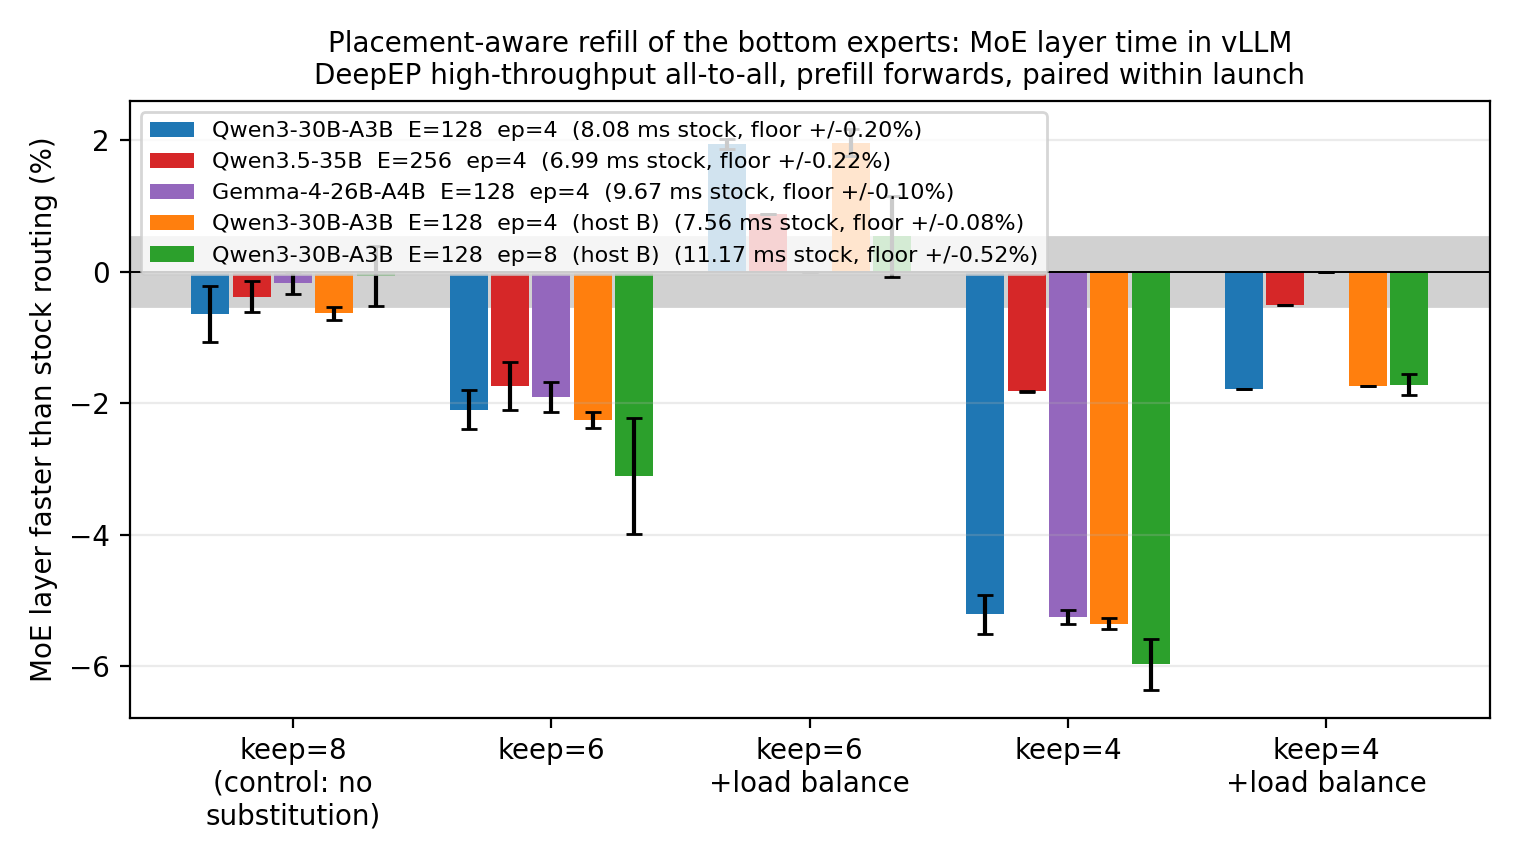
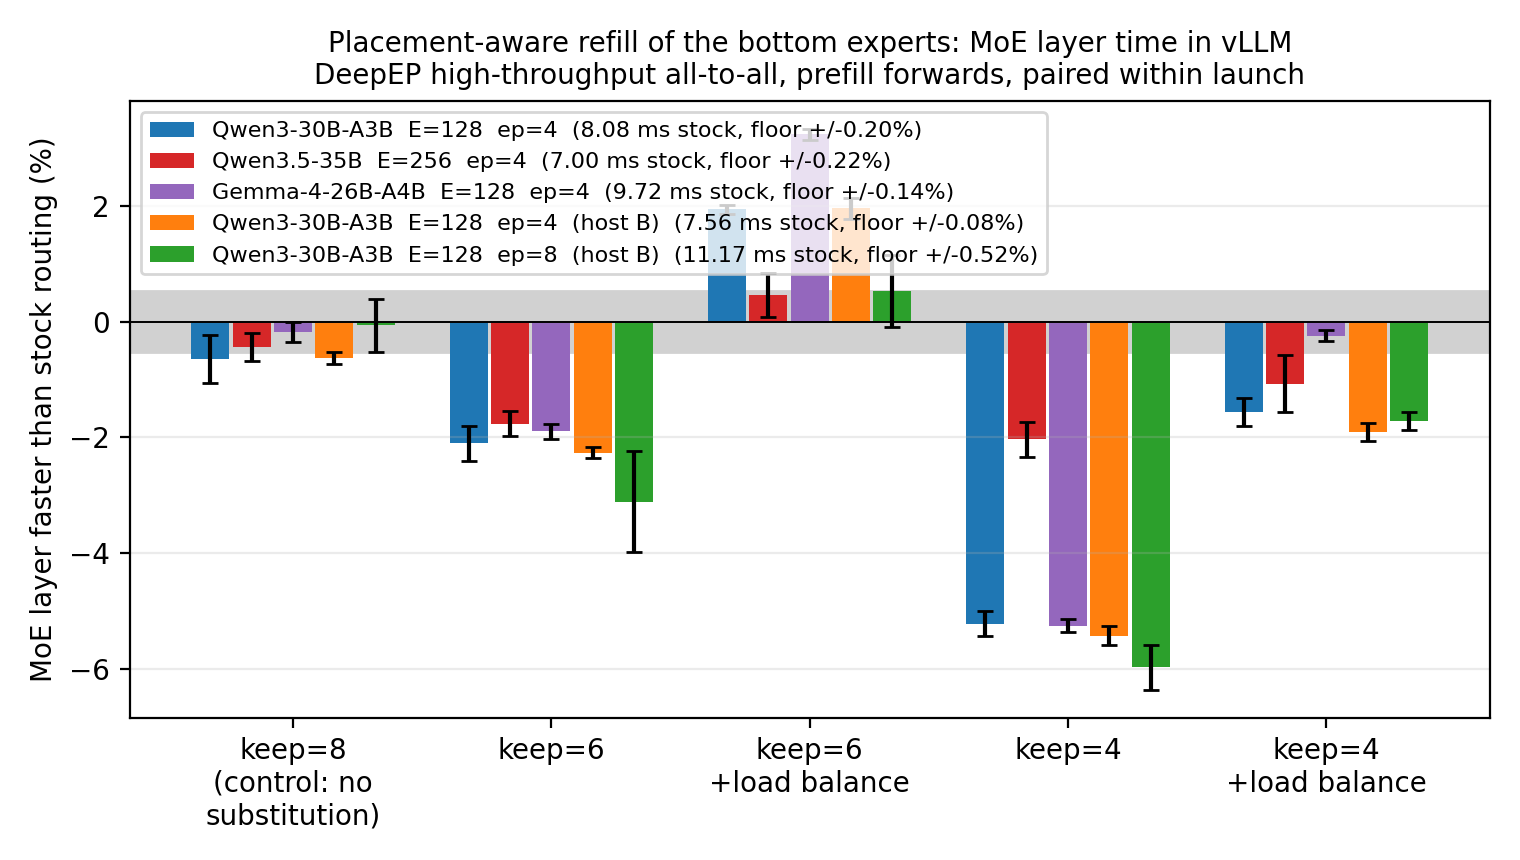
Fill the remaining cells of both render tables
Row 1's keep=4 arms now average three and two launches, and keep=6 with the
load-balance term clears its floor on all five rows of the whole-layer clock.

diff --git a/README.md b/README.md
@@ -195,10 +195,10 @@ the zero-substitution control: the kernel runs and selects nothing different.
 <!-- disptime -->
 | model | stock ms / deepep dispatch | tokens / forward | floor | keep=8 (control: no substitution) | keep=6 | keep=6 +load balance | keep=4 | keep=4 +load balance |
 |---|---|---|---|---|---|---|---|---|
-| Qwen3-30B-A3B  E=128  ep=4 | 1.96 | 16384 | +/-0.36% | **+0.0%** x4 | **+0.8%** x4 | **+0.8%** x4 | **+4.0%** x1 | - |
-| Qwen3.5-35B  E=256  ep=4 | 1.93 | 16384 | +/-0.16% | **-0.0%** x2 | - | **+0.0%** x1 | - | **+2.7%** x1 |
-| Gemma-4-26B-A4B  E=128  ep=4 | 2.13 | 16384 | +/-0.02% | **-0.2%** x1 | **+0.7%** x1 | - | **+3.9%** x1 | - |
-| Qwen3-30B-A3B  E=128  ep=4  (host B) | 1.81 | 16384 | +/-0.02% | **+0.1%** x3 | **+1.0%** x3 | **+0.9%** x3 | **+4.2%** x2 | **+4.2%** x1 |
+| Qwen3-30B-A3B  E=128  ep=4 | 1.95 | 16384 | +/-0.36% | **+0.0%** x4 | **+0.8%** x4 | **+0.8%** x4 | **+3.8%** x3 | **+3.8%** x2 |
+| Qwen3.5-35B  E=256  ep=4 | 1.93 | 16384 | +/-0.16% | **-0.0%** x3 | **-0.3%** x2 | **-0.2%** x3 | **+2.7%** x2 | **+2.6%** x3 |
+| Gemma-4-26B-A4B  E=128  ep=4 | 2.15 | 16384 | +/-0.05% | **-0.2%** x1 | **+0.6%** x3 | **+0.6%** x2 | **+3.9%** x1 | **+3.6%** x2 |
+| Qwen3-30B-A3B  E=128  ep=4  (host B) | 1.81 | 16384 | +/-0.05% | **+0.0%** x3 | **+1.0%** x3 | **+0.9%** x3 | **+4.1%** x3 | **+4.2%** x3 |
 | Qwen3-30B-A3B  E=128  ep=8  (host B) | 2.23 | 16384 | +/-0.05% | **+0.0%** x3 | **+3.9%** x3 | **+4.0%** x5 | **+10.7%** x2 | **+10.4%** x2 |
 <!-- /disptime -->
 
@@ -207,7 +207,7 @@ averages, and positive is faster. The floor is per row, because a cell is only e
 launches of its own tag: it is that row's widest base-against-base spread, halved. Four things
 make this the rule rather than the instrument. The full substitution budget, `keep=4`, is faster
 on every row and every family, from +2.6% to +10.7%. The zero-substitution control is not (-0.2%
-to +0.1%), so the kernel's own cost is not what is being measured. The gain is monotone in the
+to +0.0%), so the kernel's own cost is not what is being measured. The gain is monotone in the
 substitution budget, within every row. And the last two rows are the same model on the same host
 type at two world sizes, so the `ep` step can be read without crossing clusters: 0.9% becomes
 4.0% at `keep=6`, 4.2% becomes 10.4% at `keep=4`. That is what a fan-out saving has to do, since
@@ -223,16 +223,17 @@ also what the load-balance term is for - adding the max-rank-load penalty to the
 <!-- moetime -->
 | model | stock ms / moe layer | tokens / forward | floor | keep=8 (control: no substitution) | keep=6 | keep=6 +load balance | keep=4 | keep=4 +load balance |
 |---|---|---|---|---|---|---|---|---|
-| Qwen3-30B-A3B  E=128  ep=4 | 8.08 | 16384 | +/-0.20% | **-0.6%** x6 | **-2.1%** x6 | **+1.9%** x4 | **-5.2%** x3 | **-1.8%** x1 |
-| Qwen3.5-35B  E=256  ep=4 | 6.99 | 16384 | +/-0.22% | **-0.4%** x4 | **-1.7%** x2 | **+0.9%** x1 | **-1.8%** x2 | **-0.5%** x1 |
-| Gemma-4-26B-A4B  E=128  ep=4 | 9.67 | 16384 | +/-0.10% | **-0.2%** x2 | **-1.9%** x2 | - | **-5.2%** x2 | - |
-| Qwen3-30B-A3B  E=128  ep=4  (host B) | 7.56 | 16384 | +/-0.08% | **-0.6%** x3 | **-2.3%** x3 | **+2.0%** x3 | **-5.4%** x2 | **-1.7%** x1 |
+| Qwen3-30B-A3B  E=128  ep=4 | 8.08 | 16384 | +/-0.20% | **-0.6%** x6 | **-2.1%** x6 | **+1.9%** x4 | **-5.2%** x5 | **-1.6%** x3 |
+| Qwen3.5-35B  E=256  ep=4 | 7.00 | 16384 | +/-0.22% | **-0.4%** x5 | **-1.8%** x4 | **+0.5%** x3 | **-2.0%** x4 | **-1.1%** x3 |
+| Gemma-4-26B-A4B  E=128  ep=4 | 9.72 | 16384 | +/-0.14% | **-0.2%** x2 | **-1.9%** x4 | **+3.2%** x2 | **-5.2%** x2 | **-0.2%** x2 |
+| Qwen3-30B-A3B  E=128  ep=4  (host B) | 7.56 | 16384 | +/-0.08% | **-0.6%** x3 | **-2.3%** x3 | **+2.0%** x3 | **-5.4%** x3 | **-1.9%** x3 |
 | Qwen3-30B-A3B  E=128  ep=8  (host B) | 11.17 | 16384 | +/-0.52% | **-0.1%** x4 | **-3.1%** x3 | **+0.5%** x6 | **-6.0%** x2 | **-1.7%** x3 |
 <!-- /moetime -->
 
 `keep=6` with the load-balance term is the only arm that clears the floor on the whole-layer
-clock, and it clears it on every family it has been measured on - +2.0%, +0.9%, +0.5% - while
-the dispatch saving underneath is 10x to 200x its own floor at every budget. That is the split,
+clock, and it clears it on all five rows - +1.9%, +0.5%, +3.2%, +2.0%, +0.5%, against floors of
+0.08% to 0.52% - while the dispatch saving underneath is 10x to 200x its own floor at every
+budget. That is the split,
 and it is why both figures are here: `runs/disptime.png` measures the term the rule acts on,
 and `runs/moetime.png` measures what reaches the layer after the grouped GEMM has had its say.
 `keep=6 load_penalty=1` is therefore the arm to deploy, and it is the one the offline

diff --git a/runs/moetime.md b/runs/moetime.md
@@ -2,8 +2,8 @@ MoE layer time inside a running vLLM 0.31 engine on the DeepEP high-throughput a
 
 | model | stock ms / moe layer | tokens / forward | floor | keep=8 (control: no substitution) | keep=6 | keep=6 +load balance | keep=4 | keep=4 +load balance |
 |---|---|---|---|---|---|---|---|---|
-| Qwen3-30B-A3B  E=128  ep=4 | 8.08 | 16384 | +/-0.20% | **-0.6%** x6 | **-2.1%** x6 | **+1.9%** x4 | **-5.2%** x3 | **-1.8%** x1 |
-| Qwen3.5-35B  E=256  ep=4 | 6.99 | 16384 | +/-0.22% | **-0.4%** x4 | **-1.7%** x2 | **+0.9%** x1 | **-1.8%** x2 | **-0.5%** x1 |
-| Gemma-4-26B-A4B  E=128  ep=4 | 9.67 | 16384 | +/-0.10% | **-0.2%** x2 | **-1.9%** x2 | - | **-5.2%** x2 | - |
-| Qwen3-30B-A3B  E=128  ep=4  (host B) | 7.56 | 16384 | +/-0.08% | **-0.6%** x3 | **-2.3%** x3 | **+2.0%** x3 | **-5.4%** x2 | **-1.7%** x1 |
+| Qwen3-30B-A3B  E=128  ep=4 | 8.08 | 16384 | +/-0.20% | **-0.6%** x6 | **-2.1%** x6 | **+1.9%** x4 | **-5.2%** x5 | **-1.6%** x3 |
+| Qwen3.5-35B  E=256  ep=4 | 7.00 | 16384 | +/-0.22% | **-0.4%** x5 | **-1.8%** x4 | **+0.5%** x3 | **-2.0%** x4 | **-1.1%** x3 |
+| Gemma-4-26B-A4B  E=128  ep=4 | 9.72 | 16384 | +/-0.14% | **-0.2%** x2 | **-1.9%** x4 | **+3.2%** x2 | **-5.2%** x2 | **-0.2%** x2 |
+| Qwen3-30B-A3B  E=128  ep=4  (host B) | 7.56 | 16384 | +/-0.08% | **-0.6%** x3 | **-2.3%** x3 | **+2.0%** x3 | **-5.4%** x3 | **-1.9%** x3 |
 | Qwen3-30B-A3B  E=128  ep=8  (host B) | 11.17 | 16384 | +/-0.52% | **-0.1%** x4 | **-3.1%** x3 | **+0.5%** x6 | **-6.0%** x2 | **-1.7%** x3 |

diff --git a/runs/disptime.md b/runs/disptime.md
@@ -2,8 +2,8 @@ DeepEP dispatch time inside a running vLLM 0.31 engine on the DeepEP high-throug
 
 | model | stock ms / deepep dispatch | tokens / forward | floor | keep=8 (control: no substitution) | keep=6 | keep=6 +load balance | keep=4 | keep=4 +load balance |
 |---|---|---|---|---|---|---|---|---|
-| Qwen3-30B-A3B  E=128  ep=4 | 1.96 | 16384 | +/-0.36% | **+0.0%** x4 | **+0.8%** x4 | **+0.8%** x4 | **+4.0%** x1 | - |
-| Qwen3.5-35B  E=256  ep=4 | 1.93 | 16384 | +/-0.16% | **-0.0%** x2 | - | **+0.0%** x1 | - | **+2.7%** x1 |
-| Gemma-4-26B-A4B  E=128  ep=4 | 2.13 | 16384 | +/-0.02% | **-0.2%** x1 | **+0.7%** x1 | - | **+3.9%** x1 | - |
-| Qwen3-30B-A3B  E=128  ep=4  (host B) | 1.81 | 16384 | +/-0.02% | **+0.1%** x3 | **+1.0%** x3 | **+0.9%** x3 | **+4.2%** x2 | **+4.2%** x1 |
+| Qwen3-30B-A3B  E=128  ep=4 | 1.95 | 16384 | +/-0.36% | **+0.0%** x4 | **+0.8%** x4 | **+0.8%** x4 | **+3.8%** x3 | **+3.8%** x2 |
+| Qwen3.5-35B  E=256  ep=4 | 1.93 | 16384 | +/-0.16% | **-0.0%** x3 | **-0.3%** x2 | **-0.2%** x3 | **+2.7%** x2 | **+2.6%** x3 |
+| Gemma-4-26B-A4B  E=128  ep=4 | 2.15 | 16384 | +/-0.05% | **-0.2%** x1 | **+0.6%** x3 | **+0.6%** x2 | **+3.9%** x1 | **+3.6%** x2 |
+| Qwen3-30B-A3B  E=128  ep=4  (host B) | 1.81 | 16384 | +/-0.05% | **+0.0%** x3 | **+1.0%** x3 | **+0.9%** x3 | **+4.1%** x3 | **+4.2%** x3 |
 | Qwen3-30B-A3B  E=128  ep=8  (host B) | 2.23 | 16384 | +/-0.05% | **+0.0%** x3 | **+3.9%** x3 | **+4.0%** x5 | **+10.7%** x2 | **+10.4%** x2 |
